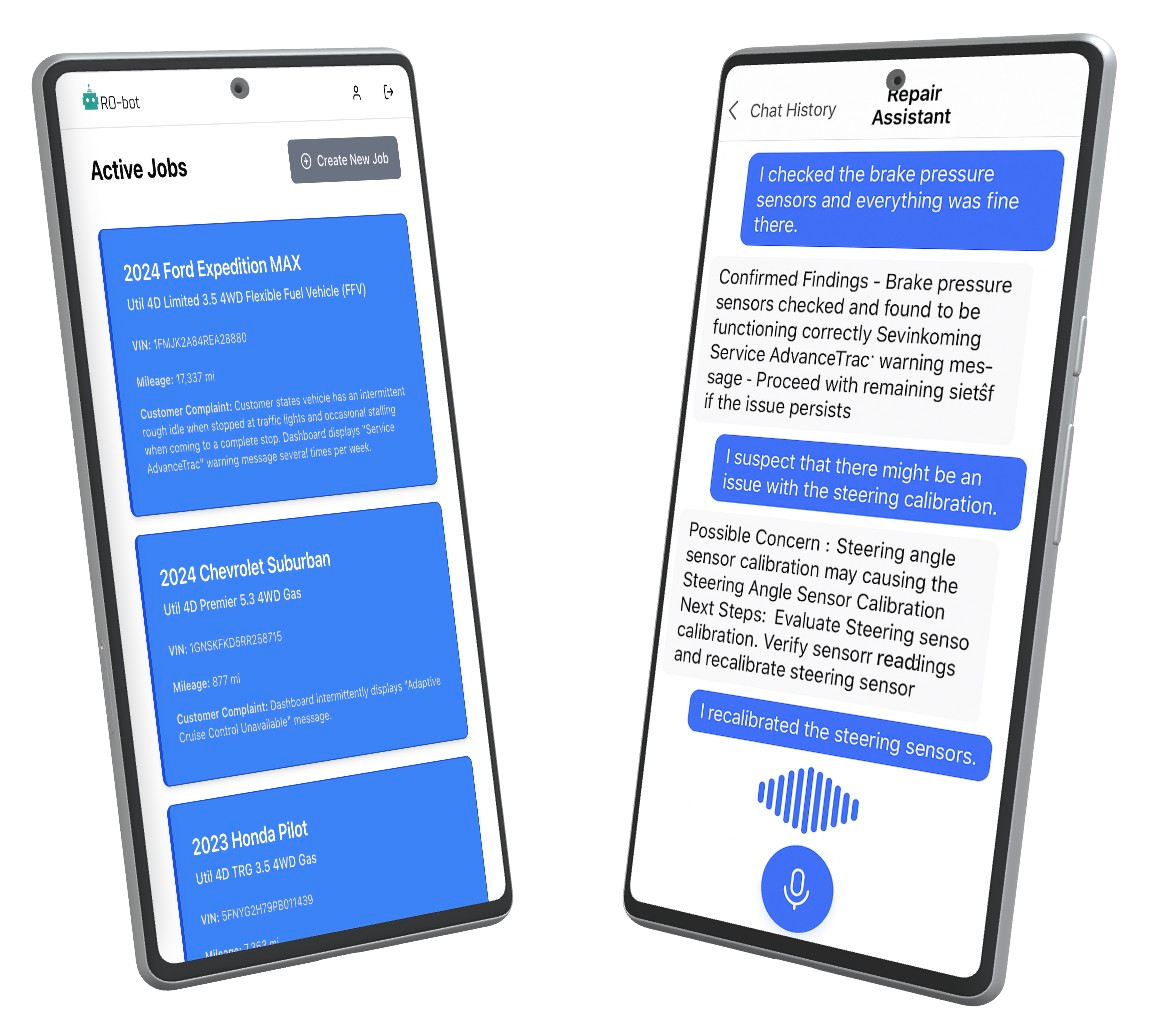
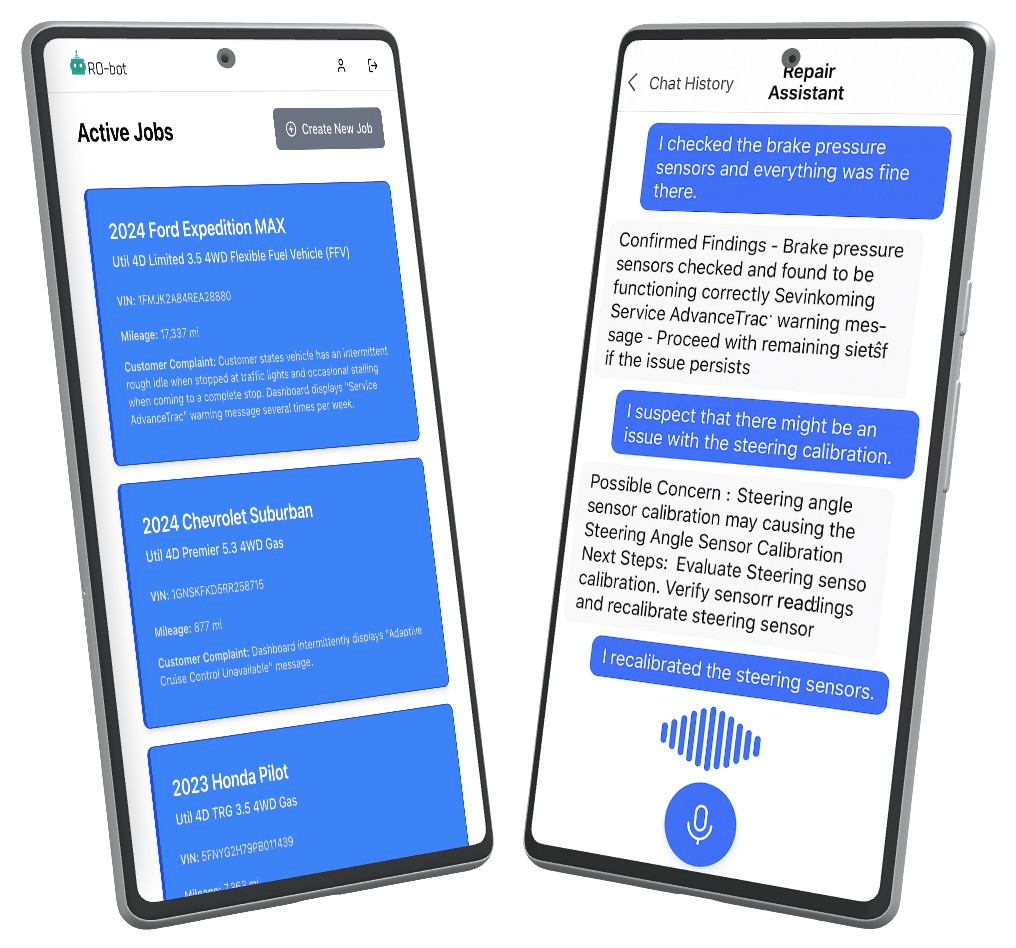
Checkpoint before assistant change: Improve layout for product display with images and centered text
Adjusts CSS classes to implement a three-column layout with images and text.

Replit-Commit-Author: Assistant

Changed region(s): [[0.5187, 0.0, 0.9764, 0.9789], [0.0, 0.0, 0.4882, 0.9789]]

diff --git a/public/out.css b/public/out.css
@@ -751,8 +751,8 @@ video {
   width: 100%;
 }
 
-.w-2\/5 {
-  width: 40%;
+.w-3\/5 {
+  width: 60%;
 }
 
 .w-32 {
@@ -771,12 +771,16 @@ video {
   max-width: 80rem;
 }
 
-.max-w-xs {
-  max-width: 20rem;
+.max-w-sm {
+  max-width: 24rem;
 }
 
 .max-w-4xl {
   max-width: 56rem;
+}
+
+.max-w-xs {
+  max-width: 20rem;
 }
 
 .max-w-2xl {
@@ -835,6 +839,10 @@ video {
 
 .justify-between {
   justify-content: space-between;
+}
+
+.gap-4 {
+  gap: 1rem;
 }
 
 .gap-8 {
@@ -1384,16 +1392,20 @@ video {
     margin-bottom: 6rem;
   }
 
-  .md\:w-1\/3 {
-    width: 33.333333%;
-  }
-
-  .md\:w-1\/2 {
-    width: 50%;
+  .md\:w-2\/5 {
+    width: 40%;
   }
 
   .md\:w-2\/3 {
     width: 66.666667%;
+  }
+
+  .md\:w-3\/5 {
+    width: 60%;
+  }
+
+  .md\:w-1\/2 {
+    width: 50%;
   }
 
   .md\:max-w-2xl {
@@ -1426,8 +1438,8 @@ video {
     margin-bottom: calc(0px * var(--tw-space-y-reverse));
   }
 
-  .md\:pl-6 {
-    padding-left: 1.5rem;
+  .md\:pl-2 {
+    padding-left: 0.5rem;
   }
 
   .md\:text-4xl {
